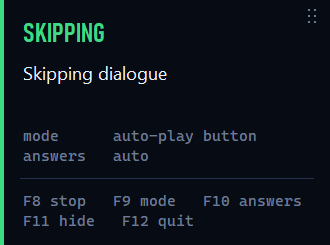
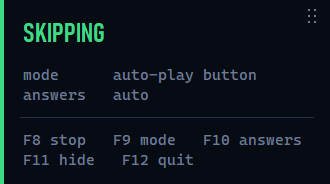
Drop the status sentence; warnings become states
The sentence under the headline restated it - "SKIPPING" over "Skipping
dialogue" - so it cost a third of the panel's height to say nothing. The
panel is 184px tall now rather than 245.

Two things it carried were not duplicates, and both moved rather than
went away. Which window took the focus now sits beside the headline in
small type. Warnings become headline states of their own: NO ADMIN,
KEY FAILED, BREAK, and PROBLEM for anything unrecognised.

That last one matters more than it looks. "not elevated - input will be
ignored" is the panel's most important message: without it the tool
looks like it is running while Windows discards every keystroke it
sends. It had to survive the sentence being removed.

STOPPED still outranks a warning, because the elevation note is set once
at startup and never cleared - a warning that always won would leave F8
with no visible effect.

diff --git a/src/genshin_autoskip/hud.py b/src/genshin_autoskip/hud.py
@@ -63,8 +63,6 @@ STOP = "#ff5c7a"    # not running at all
 
 WIDTH = 330
 RAIL = 4
-#: Lines reserved for the status sentence, so the panel keeps one height.
-ACTIVITY_LINES = 2
 
 #: The drag handle: small enough to be hard to hit by accident over the game,
 #: big enough to grab without aiming.
@@ -100,6 +98,30 @@ ANCHOR_LABELS = {
     "marker": "orange marker",
     "both": "either",
 }
+
+
+#: Notes the loop sets, turned into states of their own. A note explains a tool
+#: that looks like it is working and is not, so it has to reach the headline -
+#: it is the state, not a footnote to one.
+NOTE_STATES = (
+    ("not elevated", "NO ADMIN", "keys are ignored"),
+    ("input error", "KEY FAILED", ""),
+    ("break", "BREAK", ""),
+)
+
+
+def note_state(note: str) -> tuple[str, str, str] | None:
+    """Split a note into a headline, its detail, and nothing if it is routine.
+
+    The detail falls back to whatever the note says after its prefix, so an
+    unrecognised note still reaches the panel rather than being swallowed.
+    """
+    text = note.strip()
+    for prefix, word, detail in NOTE_STATES:
+        if text.lower().startswith(prefix):
+            tail = text[len(prefix):].lstrip(" -:")
+            return word, detail or tail, HOLD if word == "BREAK" else STOP
+    return ("PROBLEM", text, STOP) if text else None
 
 
 def _shorten(title: str, limit: int = 26) -> str:
@@ -168,19 +190,18 @@ class Overlay:
                          anchor="w")
         title.pack(side="left")
 
-        # Two lines' worth of room, always. The sentence is sometimes one line
-        # and sometimes two, and letting the panel resize around it moved
-        # everything below - so the hotkeys never sat still. Reserving the
-        # space at the top keeps the whole panel a fixed height.
-        activity = tk.Label(body, text="", bg=INK, fg=DIM, anchor="nw",
-                            justify="left", font=BODY, height=ACTIVITY_LINES,
-                            wraplength=WIDTH - RAIL - 32)
-        activity.pack(fill="x", pady=(6, 0))
+        # The one thing the state word cannot say on its own: *which* window
+        # took the focus. It rides alongside the headline rather than on a line
+        # of its own, which is what the panel used to spend a whole sentence on.
+        detail = tk.Label(head, text="", bg=INK, fg=DIM, font=UTILITY,
+                          anchor="e")
+        # Kept clear of the drag handle, which sits in this same corner.
+        detail.pack(side="right", pady=(6, 0), padx=(0, GRIP_W - GRIP_INSET))
 
         settings = tk.Label(body, text="", bg=INK, fg=FAINT, anchor="w",
                             justify="left", font=UTILITY,
                             wraplength=WIDTH - RAIL - 32)
-        settings.pack(fill="x", pady=(9, 0))
+        settings.pack(fill="x", pady=(10, 0))
 
         tk.Frame(body, bg=EDGE, height=1).pack(fill="x", pady=(10, 8))
 
@@ -189,9 +210,8 @@ class Overlay:
                         wraplength=WIDTH - RAIL - 32)
         keys.pack(fill="x")
 
-        self._widgets = {"rail": rail, "title": title,
-                         "activity": activity, "settings": settings,
-                         "keys": keys}
+        self._widgets = {"rail": rail, "title": title, "detail": detail,
+                         "settings": settings, "keys": keys}
 
         root.geometry(f"{WIDTH}x1")
         root.update_idletasks()
@@ -354,8 +374,13 @@ class Overlay:
         game, green working.
         """
         s = self.state
+        # Stopped first, so F8 always visibly does something. A warning would
+        # otherwise sit there permanently - "not elevated" is set once at
+        # startup and never clears - and swallow that feedback.
         if not s.running:
             return "STOPPED", STOP
+        if (warning := note_state(s.note)) is not None:
+            return warning[0], warning[2]
         if s.choice and not s.auto_answer:
             return "YOUR TURN", WORK
         if not s.game_running:
@@ -364,23 +389,22 @@ class Overlay:
             return "NO FOCUS", HOLD
         return ("SKIPPING", GO) if s.dialogue else ("READY", GO)
 
-    def _activity(self) -> tuple[str, str]:
-        """One sentence for the situation, most urgent case first."""
+    def _detail(self) -> tuple[str, str]:
+        """What the state word leaves out - nothing, most of the time.
+
+        The sentence that used to sit here restated the headline: "SKIPPING"
+        over "Skipping dialogue". Two cases carried something new, and only
+        those still say anything: which window stole the focus, and what a
+        warning is about.
+        """
         s = self.state
-        if s.note:
-            return s.note, STOP
-        if not s.running:
-            return "Press F8 to start", DIM
-        if not s.game_running:
-            return "Start Genshin and it will pick up", DIM
-        if not s.game_focused:
-            return (f"Waiting — {_shorten(s.foreground)} has focus"
-                    if s.foreground else "Waiting for Genshin to be in front"), DIM
-        if s.choice and not s.auto_answer:
-            return "Pick an answer — it is yours to make", WORK
-        if s.dialogue:
-            return "Skipping dialogue", TEXT
-        return "Watching for dialogue", DIM
+        if s.running and (warning := note_state(s.note)) is not None:
+            # Capped: an input error carries whatever Windows reported, and a
+            # long one would run past the panel rather than wrap.
+            return _shorten(warning[1], 22), warning[2]
+        if s.running and s.game_running and not s.game_focused and s.foreground:
+            return _shorten(s.foreground, 20), DIM
+        return "", DIM
 
     def _settings_line(self) -> str:
         """Two settings, two lines, labels aligned.
@@ -430,14 +454,14 @@ class Overlay:
         self._widgets["title"].config(text=title, fg=colour)
         self._widgets["rail"].config(bg=colour)
 
-        text, tone = self._activity()
-        self._widgets["activity"].config(text=text, fg=tone)
+        detail, tone = self._detail()
+        self._widgets["detail"].config(text=detail, fg=tone)
         self._widgets["settings"].config(text=self._settings_line())
         self._widgets["keys"].config(text=self._keys_line())
 
-        # The height is fixed by the reserved lines above, so this should never
-        # fire - it is here so an unexpected change re-anchors the panel to its
-        # corner instead of letting it grow off the screen edge.
+        # Every row is a fixed number of lines, so this should never fire - it
+        # is here so an unexpected change re-anchors the panel to its corner
+        # instead of letting it grow off the screen edge.
         root.update_idletasks()
         wanted = root.winfo_reqheight()
         if wanted != self._height:

diff --git a/tests/test_hud_notes.py b/tests/test_hud_notes.py
@@ -1,0 +1,80 @@
+"""A warning has to become a state, not a footnote.
+
+`not elevated - input will be ignored` is the panel's most important message:
+without it the tool looks like it is running while every keystroke it sends is
+discarded. When the status sentence was removed for taking up room, that message
+had to survive somewhere, so it now sets the headline itself.
+"""
+import pytest
+
+from genshin_autoskip.hud import HOLD, STOP, Overlay, note_state
+from genshin_autoskip.state import SkipperState
+
+
+def panel(**fields: object) -> Overlay:
+    base = dict(running=True, game_running=True, game_focused=True)
+    return Overlay(SkipperState(**{**base, **fields}))
+
+
+def test_no_note_is_not_a_state() -> None:
+    assert note_state("") is None
+    assert note_state("   ") is None
+
+
+def test_the_elevation_warning_reaches_the_headline() -> None:
+    word, detail, colour = note_state("not elevated - input will be ignored")
+    assert word == "NO ADMIN"
+    assert detail == "keys are ignored"
+    assert colour == STOP
+
+
+def test_an_input_error_keeps_what_windows_reported() -> None:
+    word, detail, colour = note_state("input error: SendInput returned 0")
+    assert word == "KEY FAILED"
+    assert detail == "SendInput returned 0"
+    assert colour == STOP
+
+
+def test_a_break_is_not_an_error() -> None:
+    word, _, colour = note_state("break 4.2s")
+    assert (word, colour) == ("BREAK", HOLD)
+
+
+def test_an_unknown_note_is_still_shown() -> None:
+    """Better a vague headline than a message that vanishes."""
+    word, detail, colour = note_state("something new went wrong")
+    assert word == "PROBLEM"
+    assert detail == "something new went wrong"
+    assert colour == STOP
+
+
+def test_a_warning_shows_while_running() -> None:
+    assert panel(note="not elevated - x")._headline() == ("NO ADMIN", STOP)
+
+
+def test_stopping_still_reads_as_stopped() -> None:
+    """The elevation note is set once at startup and never cleared, so a
+    warning that outranked everything would swallow F8's only feedback."""
+    assert panel(running=False, note="not elevated - x")._headline()[0] == "STOPPED"
+
+
+def test_the_detail_says_who_stole_the_focus() -> None:
+    text, _ = panel(game_focused=False, foreground="Google Chrome")._detail()
+    assert text == "Google Chrome"
+
+
+@pytest.mark.parametrize("state", [
+    dict(dialogue=True),
+    dict(dialogue=False),
+    dict(game_running=False),
+    dict(running=False),
+])
+def test_nothing_is_said_when_there_is_nothing_to_add(state: dict) -> None:
+    """The sentence was dropped because it restated the headline; the detail
+    must not quietly grow back into one."""
+    assert panel(**state)._detail()[0] == ""
+
+
+def test_a_long_error_is_trimmed_rather_than_run_off_the_panel() -> None:
+    detail, _ = panel(note="input error: " + "verbose " * 10)._detail()
+    assert len(detail) <= 23

diff --git a/README.md b/README.md
@@ -54,8 +54,11 @@ and press it the moment a conversation you care about starts: the skipper keeps
 advancing lines but stops at each choice and reads `YOUR TURN`, so a deliberate
 stop is never mistaken for a broken tool.
 
-The panel's left edge carries the state as a colour: green working, amber
-waiting on the game or on focus, blue your move, red not running.
+The panel says one thing: what is happening right now, as a word and as a
+colour along its left edge — green working, amber waiting on the game or on
+focus, blue your move, red not running or something wrong. Warnings are states
+of their own: `NO ADMIN` when keystrokes are being discarded, `KEY FAILED` when
+Windows rejects them.
 
 To move it, grab the dotted handle in its top-right corner and drag; it stays
 where you leave it. The handle is the only part of the overlay the mouse can
